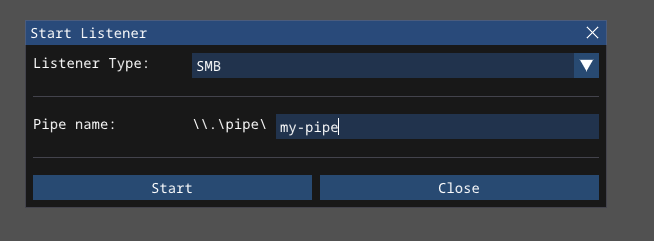
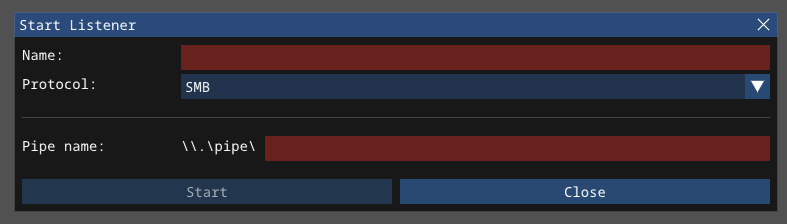
Updated documentation.

diff --git a/docs/4-CLIENT.md b/docs/4-CLIENT.md
@@ -9,6 +9,7 @@
 - [Sessions](#sessions)
   - [Table View](#table-view)
   - [Graph View](#graph-view)
+- [Targets](#targets)
 - [Agent Console](#agent-console)
 - [Loot](#loot)
   - [Downloads](#downloads)
@@ -26,22 +27,23 @@ Conquest's operator client is developed using a wrapper for the **Dear ImGui** l
 
 ### Keyboard Shortcuts 
 
-Keyboard shortcuts can be used to open and focus UI components. `CTRL + B` is used as a modifier key. Pressing ESC deactivates the modifier key.
+Keyboard shortcuts can be used to open and focus UI components. There are two modifier keys: `CTRL + B` for views and `CTRL + L` for loot. Pressing ESC deactivates the modifier key.
 
 | Action | Shortcut |
 | --- | --- |
-| **Modifier key** | `CTRL + B` |
-| Sessions Table | `MOD + A` |
-| Sessions Graph | `MOD + G` |
-| Listeners | `MOD + L` |
-| Eventlog | `MOD + E` |
-| Operator Chat | `MOD + T` |
-| Downloads | `MOD + D` |
-| Screenshots | `MOD + S` |
-| Credentials | `MOD + C` |
-| Process Browser | `MOD + P` |
-| Filesystem Browser | `MOD + F` |
-| Script Manager | `MOD + M` |
+| Sessions Table | `Ctrl+B, A` |
+| Sessions Graph | `Ctrl+B, G` |
+| Targets | `Ctrl+B, T` |
+| Listeners | `Ctrl+B, L` |
+| Eventlog | `Ctrl+B, E` |
+| Operator Chat | `Ctrl+B, C` |
+| Process Browser | `Ctrl+B, P` |
+| Filesystem Browser | `Ctrl+B, F` |
+| Script Manager | `Ctrl+B, M` |
+| --- | --- |
+| Downloads | `Ctrl+L, D` |
+| Screenshots | `Ctrl+L, S` |
+| Credentials | `Ctrl+L, C` |
 
 ## User Authentication
 
@@ -54,9 +56,13 @@ When startin the client, the operator is met with the user authentication modal.
 
 ## Listeners
 
-The **Listeners** view shows a table with all currently active listeners and provides buttons for starting new listeners and for generating `Monarch` payloads. Right-clicking an active listeners opens a context menu that allows the user to stop the listener and remove it from the team server database. 
+The **Listeners** view shows a table with all currently active listeners and provides buttons for starting new listeners and for generating `Monarch` payloads. Right-clicking an active listeners opens a context menu that allows the user to edit (and restart) the listener or stop the listener and remove it from the team server database. 
 
 ![Listeners View](../assets/client.png)
+
+For HTTP listeners, it is further possible to preview the network profile configuration via the right-click context menu.
+
+![Profile Preview](../assets/client-20.png)
 
 ## Sessions 
 
@@ -86,6 +92,12 @@ To interact with an agent, one can either double-click it in the table or graph 
 ![Session View Context Menu](../assets/client-2.png)
 
 It is also possible to select multiple rows by dragging or holding CTRL/SHIFT and performing actions on all selected rows simultaneously. 
+
+## Targets 
+
+The **Targets** view shows a list of unique hosts based on hostname + domain. A side panel shows metadata of the host as well as the number of sessions for that host on the team server.
+
+![Targets](../assets/client-21.png)
 
 ## Agent Console 
 
@@ -172,7 +184,6 @@ Similarly to the file browser, the **Process Browser** provides a table view of 
 The process list is refreshed either by running the ps command in the agent console or by clicking the refresh icon in the component. When the agent is running in a SYSTEM context, right-clicking a process offers the option to steal its token.
 
 ![File Browser](../assets/client-16.png)
-
 
 ## Script Manager
 

diff --git a/docs/5-LISTENER.md b/docs/5-LISTENER.md
@@ -2,7 +2,7 @@
 
 Listeners can be started by pressing the **Start Listener** button in the **Listeners** view. This opens the following modal popup.
 
-The listener protocol can be selected using the first dropdown menu. The following listeners are supported:
+Aside from the configuration of the listener name, the listener protocol can be selected using the first dropdown menu. Currently, Conquest supports the following:
 
 ## HTTP Listeners
 
@@ -12,9 +12,28 @@ HTTP Listeners are used for outbound network traffic that directly reaches the t
 
 | Name | Type | Description |
 | --- | --- | --- | 
-| Host (Bind) | String |  IP address or interface that the listener binds to on the team server | 
-| Port (Bind) | Integer | Port that the listeners bind to on the team server | 
+| Host (Bind) | Dropdown |  IP address or interface that the listener binds to on the team server. The dropdown shows all possible interfaces on the team server. | 
+| Port (Bind) | Integer | Port that the listeners bind to on the team server. The combination of the bind host and bind port needs to be unique. | 
 | Hosts (Callback) | Multi-line String |  Callback hosts, one per line. The hosts are defined, separated by new-lines, in the format `<ip/domain>:<port>`. If no port is specified, the bind port is used instead. If no callback hosts are defined at all, the bind host and bind port are used.<br>Callback hosts are the endpoints that the `Monarch` agent connects to. If multiple are defined, a random entry of the list of callback hosts is selected for each request.
+
+### Profile overwrites
+
+Expanding the *Network Profile Settings*, it is possible to overwrite the default profile that the team server was started with. Overwritten profile settings are stored on the listener object and team server database. The profile overwrites are divided into four sections: 
+
+- **GET Request**: sent from agent to server (Heartbeat packet)
+- **GET Response**: sent from server to agent (Tasks packet)
+- **POST Request**: sent from agent to server (Task results and registration packet)
+- **POST Response**: sent from server to agent 
+
+![Profile overwrites](../assets/listener-3.png)
+
+![Profile overwrites](../assets/listener-5.png)
+
+The profile settings contain input validation that prevents the listener from being started when invalid configuration is detected. Refer to [3-PROFILE](./3-PROFILE.md) for rules and expected settings. The profile settings can be exported to a TOML profile using the **Export** button. Similarly, an existing Conquest profile can be imported directly in the listener modal using the **Import** button.
+
+The *Preview* at the bottom of each tab should what the resulting HTTP request would look like. Pressing the **Shuffle** button applies randomization. 
+
+![Preview](../assets/listener-4.png)
 
 ## SMB Listeners
 

diff --git a/docs/7-MODULES.md b/docs/7-MODULES.md
@@ -89,7 +89,7 @@ The core module exposes commands that are built into the agent by default and ar
 Retrieve and update agent settings. Settings that are not specified remain unchanged. Execute this command without arguments to retrieve the current configuration.
 
 ```
-Usage: config [--sleep delay] [--jitter jitter] [--sleepmask technique] [--spoof] [--no-spoof]
+Usage: config [--sleep delay] [--jitter jitter] [--sleepmask technique] [--spoof] [--no-spoof] [--listener listenerId]
 Example: config --sleep 10 --jitter 15 --sleepmask ekko
 
 Optional arguments:
@@ -103,9 +103,14 @@ Optional arguments:
                                          - FOLIAGE
   --spoof                   BOOL       Enable stack spoofing to obfuscate the call stack (only available for EKKO and ZILEAN sleepmask techniques).
   --no-spoof                BOOL       Disable stack spoofing to obfuscate the call stack.
+  --listener listenerId     STRING     Dynamically switch the callback channel to another HTTP listener at runtime.
 ```
 
 ![Config](../assets/modules-1.png)
+
+Using the `--listener` flag, it is possible to dynamically switch to a different HTTP listener by changing callback hosts and the used network profile. 
+
+![Dynamic HTTP Channel Switching](../assets/modules-13.png)
 
 ### exit
 Terminate the agent process or thread. This command is also invoked when the agent is exited from the UI.

diff --git a/docs/8-SCRIPTING.md b/docs/8-SCRIPTING.md
@@ -560,7 +560,7 @@ Return the architecture of the agent (`"x64"` or `"x86"`). Raises an error if th
 ---
 
 #### `conquest.set_impersonation(agentId, token)`
-Set the agent's token impersonation.
+Set the agent's token impersonation. Pass an empty string to clear it.
 
 | Parameter | Type | Description |
 | --- | --- | --- |
@@ -570,7 +570,7 @@ Set the agent's token impersonation.
 ---
 
 #### `conquest.set_workingdir(agentId, path)`
-Set the agent's working directory displayed in the console prompt. Pass an empty string to clear it.
+Set the agent's working directory displayed in the console prompt.
 
 | Parameter | Type | Description |
 | --- | --- | --- |
